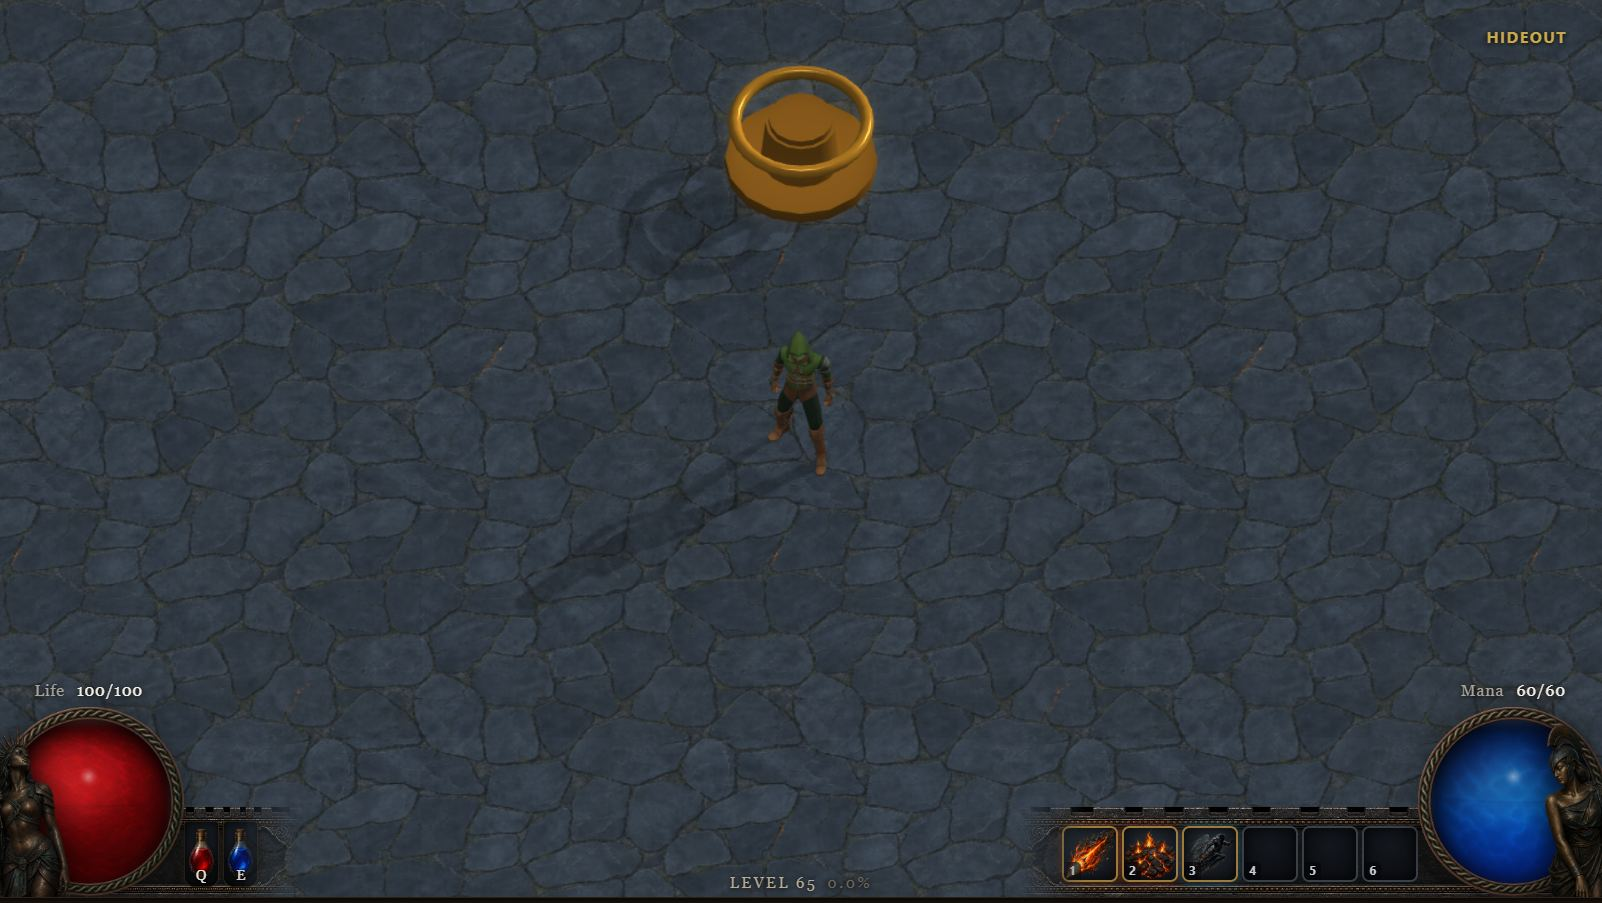
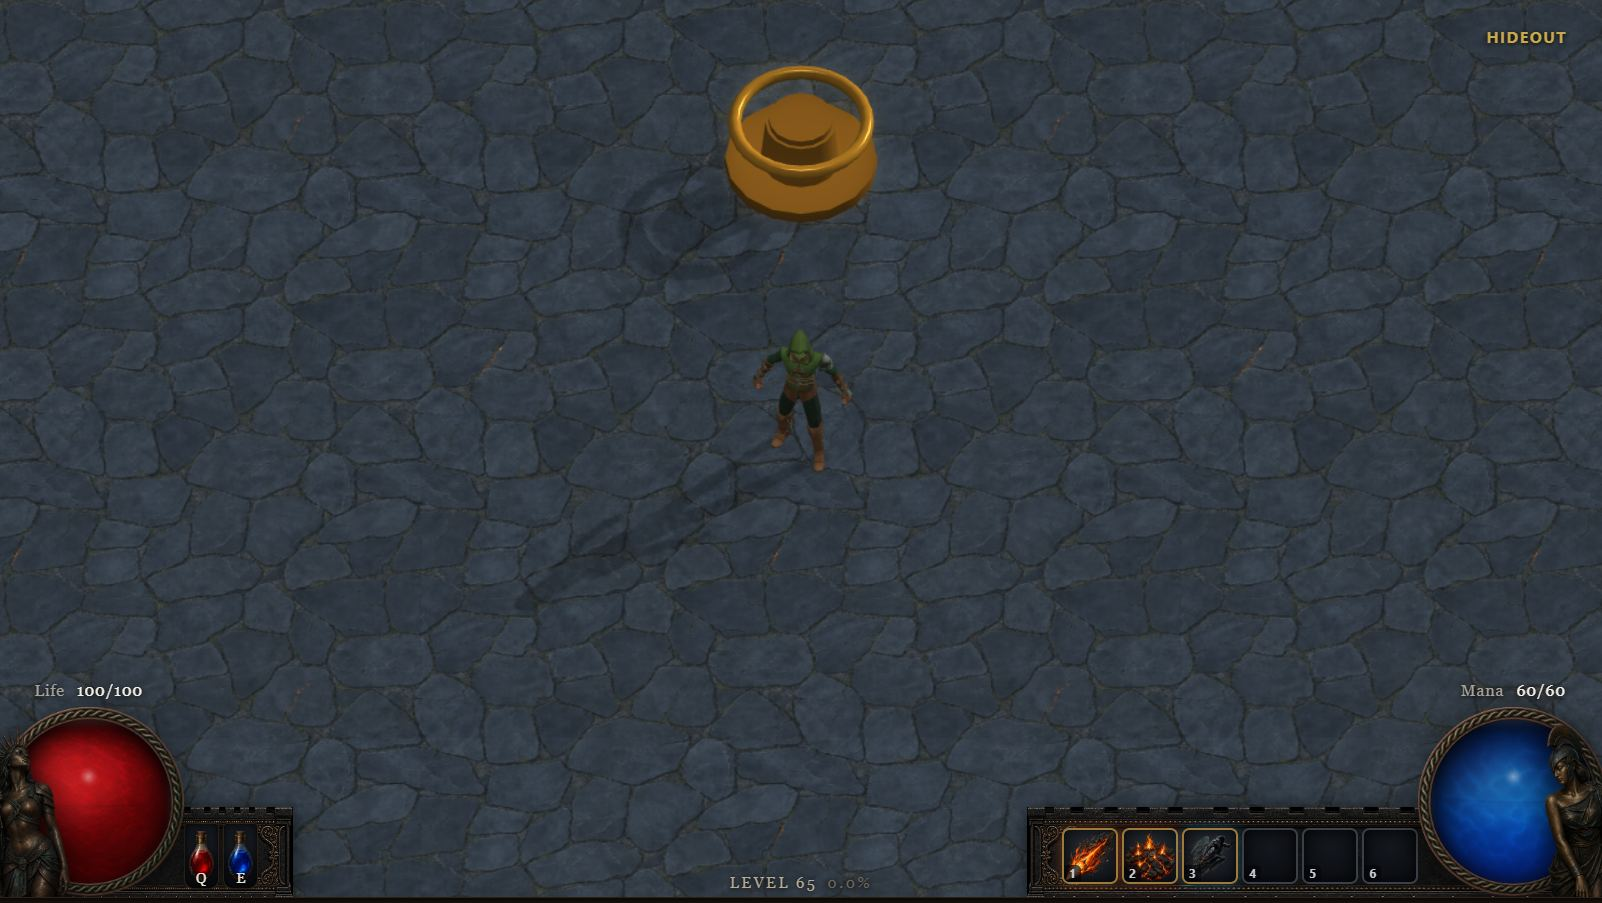
fix(ui): the bottom bar ends in the art, not in a fade

diff --git a/apps/web/src/hud/Hud.tsx b/apps/web/src/hud/Hud.tsx
@@ -33,11 +33,7 @@ const FLASK_W = `${(ORB_VW * 0.215).toFixed(2)}vw`;
 const FLASK_H = `${(ORB_VW * 0.40).toFixed(2)}vw`;
 // The border-image's own side slice. Named because the padding below has to
 // subtract exactly it, or the first slot drifts out from under the ring.
-const BAR_SIDE = 36;
-// The panel art is flush-cut at both image edges, crenellations included, so a
-// 9-slice ends it with a razor edge. The inner end fades over the last few
-// pixels instead, which reads as the bar receding rather than being sliced.
-const BAR_FADE = `${(ORB_VW * 0.42).toFixed(2)}vw`;
+const BAR_SIDE = 28;
 // Content clears the globe by padding, not by offsetting the whole bar: that way the art
 // keeps running behind the ring. BAR_SIDE is the border-image's own side slice, which
 // already sits between the bar's edge and its first slot.
@@ -143,9 +139,13 @@ const barStyle: React.CSSProperties = {
   alignItems: "center",
   gap: "0.25vw",
   borderStyle: "solid",
-  borderWidth: `14px ${BAR_SIDE}px 16px ${BAR_SIDE}px`,
-  borderImageSource: "url(/hud/bar-panel-v1.png)",
-  borderImageSlice: "42 110 48 110 fill",
+  borderWidth: `18px ${BAR_SIDE}px 16px ${BAR_SIDE}px`,
+  // bar-panel-v2.png, 1024x209: v1 was flush-cut at both image edges, so a 9-slice
+  // ended it on a straight vertical line mid-merlon. v2 closes both ends with a
+  // corner tower over a pilaster over a stepped end-block, all inside the 78px side
+  // slice, so the panel terminates in the art instead of in a CSS fade.
+  borderImageSource: "url(/hud/bar-panel-v2.png)",
+  borderImageSlice: "50 78 44 78 fill",
   filter: "drop-shadow(0 2px 8px rgba(0,0,0,0.7))",
 };
 
@@ -533,7 +533,7 @@ export function Hud({ snapshot, hoveredEntityId = null }: HudProps) {
       </div>
 
       {/* Flask bar — runs off the screen side and under the life globe, per poe1-lower-bar.png */}
-      <div data-testid="flask-row" style={{ ...barStyle, left: 0, paddingLeft: BAR_PAD, zIndex: 2, maskImage: `linear-gradient(to right, #000 calc(100% - ${BAR_FADE}), transparent)` }}>
+      <div data-testid="flask-row" style={{ ...barStyle, left: 0, paddingLeft: BAR_PAD, zIndex: 2 }}>
         {FLASKS.map((f) => {
           const charges = f.kind === "life"
             ? snapshot.player.flasks.lifeCharges
@@ -546,7 +546,7 @@ export function Hud({ snapshot, hoveredEntityId = null }: HudProps) {
       </div>
 
       {/* Skill bar — mirror of the flask bar, running under the mana globe */}
-      <div data-testid="skill-row" style={{ ...barStyle, right: 0, paddingRight: BAR_PAD, zIndex: 2, maskImage: `linear-gradient(to left, #000 calc(100% - ${BAR_FADE}), transparent)` }}>
+      <div data-testid="skill-row" style={{ ...barStyle, right: 0, paddingRight: BAR_PAD, zIndex: 2 }}>
         {SKILL_SLOTS.map((slot, idx) => {
           const cd = slot.id ? cooldowns[slot.id] ?? 0 : 0;
           const ready = cd <= 0;

diff --git a/devlog/README.md b/devlog/README.md
@@ -149,6 +149,6 @@ The orbs stop being CSS.
 <td width="33%"><img src="screenshots/2026-07-25-crit-chance.jpeg" alt="Critical strike chance" width="100%"><br><sub><b>Critical strikes</b> - <code>of Menace</code> was the last combat suffix reading zero. Crit needs two numbers and PoE keeps them in different places: the skill owns the base chance and gear only multiplies it, so Ember Bolt's <code>7%</code> (PoE2's Fireball, where fire spells sit lowest) with a <code>+9%</code> focus is 7.63% and not 16%. The roll is in hundredths of a percent so that fraction survives integer math, and a crit deals <code>200%</code> of the hit, which is PoE's base Critical Damage Bonus of 100% rather than a number picked here. It draws from its own named stream that is only touched when a skill has a base chance at all, so a kit that cannot crit consumes no randomness and older replays still check out. One roll per cast is exactly one roll per hit today, because a bolt damages the first monster it touches and is spent; that stops being true the day something pierces. Ailments are left out, on the same rule that keeps spell damage off burning ground. What a crit does not do yet is <em>look</em> like anything: there are no floating damage numbers, and the snapshot the client renders from carries no events at all, only state, so a crit reads as a health bar dropping faster and nothing more. The channel that would carry it is its own slice. The shot is the whole offence block finally showing gear: 12% spell damage, 9% cast speed, 9% crit, off an Ember Wand of Casting and an Ashen Focus of Menace.</sub></td>
 </tr>
 <tr>
-<td width="33%"><img src="screenshots/2026-07-25-hud-bar-ends.jpeg" alt="HUD bar ends" width="100%"><br><sub><b>The bottom bar stops looking cut</b> - the flask and skill panels are 9-sliced from one piece of art, and that art is flush-cut at both image edges, crenellations included, so each panel ended on a razor-straight vertical line hanging in mid-screen. The ornate pilaster at the end was never the problem: the battlement running along the top simply stopped. The inner end now fades over about four tenths of a globe, so the panel recedes into the dark instead of being sliced off, and only the end that faces the middle of the screen fades - the outer end runs under the braided ring and off the side, which is what makes the bottom read as one piece of furniture in <code>poe1-lower-bar.png</code>. Both panels shrank a step while it was open, 0.65 of a globe to 0.58, with the slots, flasks and border slice taken down in proportion so nothing inside got relatively fatter. The side slice is a named constant now because the padding that clears the globe has to subtract exactly it; two hardcoded 40s meant the first flask could drift out from under the ring the moment either changed. Life and Mana also moved down onto their globes in the same pass: PoE1 leaves about a quarter of a globe of air above the ring, which at this scale read as two numbers floating loose from the HUD.</sub></td>
+<td width="33%"><img src="screenshots/2026-07-25-hud-bar-ends.jpeg" alt="HUD bar ends" width="100%"><br><sub><b>The bottom bar stops looking cut</b> - the flask and skill panels are 9-sliced from one piece of art, and that art was flush-cut at both image edges, crenellations included, so each panel ended on a razor-straight vertical line hanging in mid-screen, sliced through the middle of a merlon. The ornate pilaster was never the problem: the battlement running along the top simply stopped. The fix is new art rather than a CSS trick - a first pass faded the inner end out with a <code>maskImage</code> gradient, which only traded a hard edge for a smudge. <code>bar-panel-v2.png</code> closes both ends properly instead: a complete corner tower over the pilaster, a stepped end-block returning the bottom rail, and a chamfered stone return down the outer face, so the panel terminates in the drawing. Both ends are mirrored and every part of the ornament sits inside the 78px side slice, because the 804px between them gets stretched to whatever width the screen is and has to stay an even rhythm of merlons, beads and studs with no centrepiece. The panel is 1024x209 now against v1's 1024x245, which moves the slice numbers to 50/78/44/78. Both bars also shrank a step while it was open, 0.65 of a globe to 0.58, with slots, flasks and the border slice taken down in proportion. The side slice is a named constant now because the padding that clears the globe has to subtract exactly it; two hardcoded numbers meant the first flask could drift out from under the ring the moment either changed. Life and Mana moved down onto their globes in the same pass: PoE1 leaves about a quarter of a globe of air above the ring, which at this scale read as two numbers floating loose from the HUD.</sub></td>
 </tr>
 </table>
